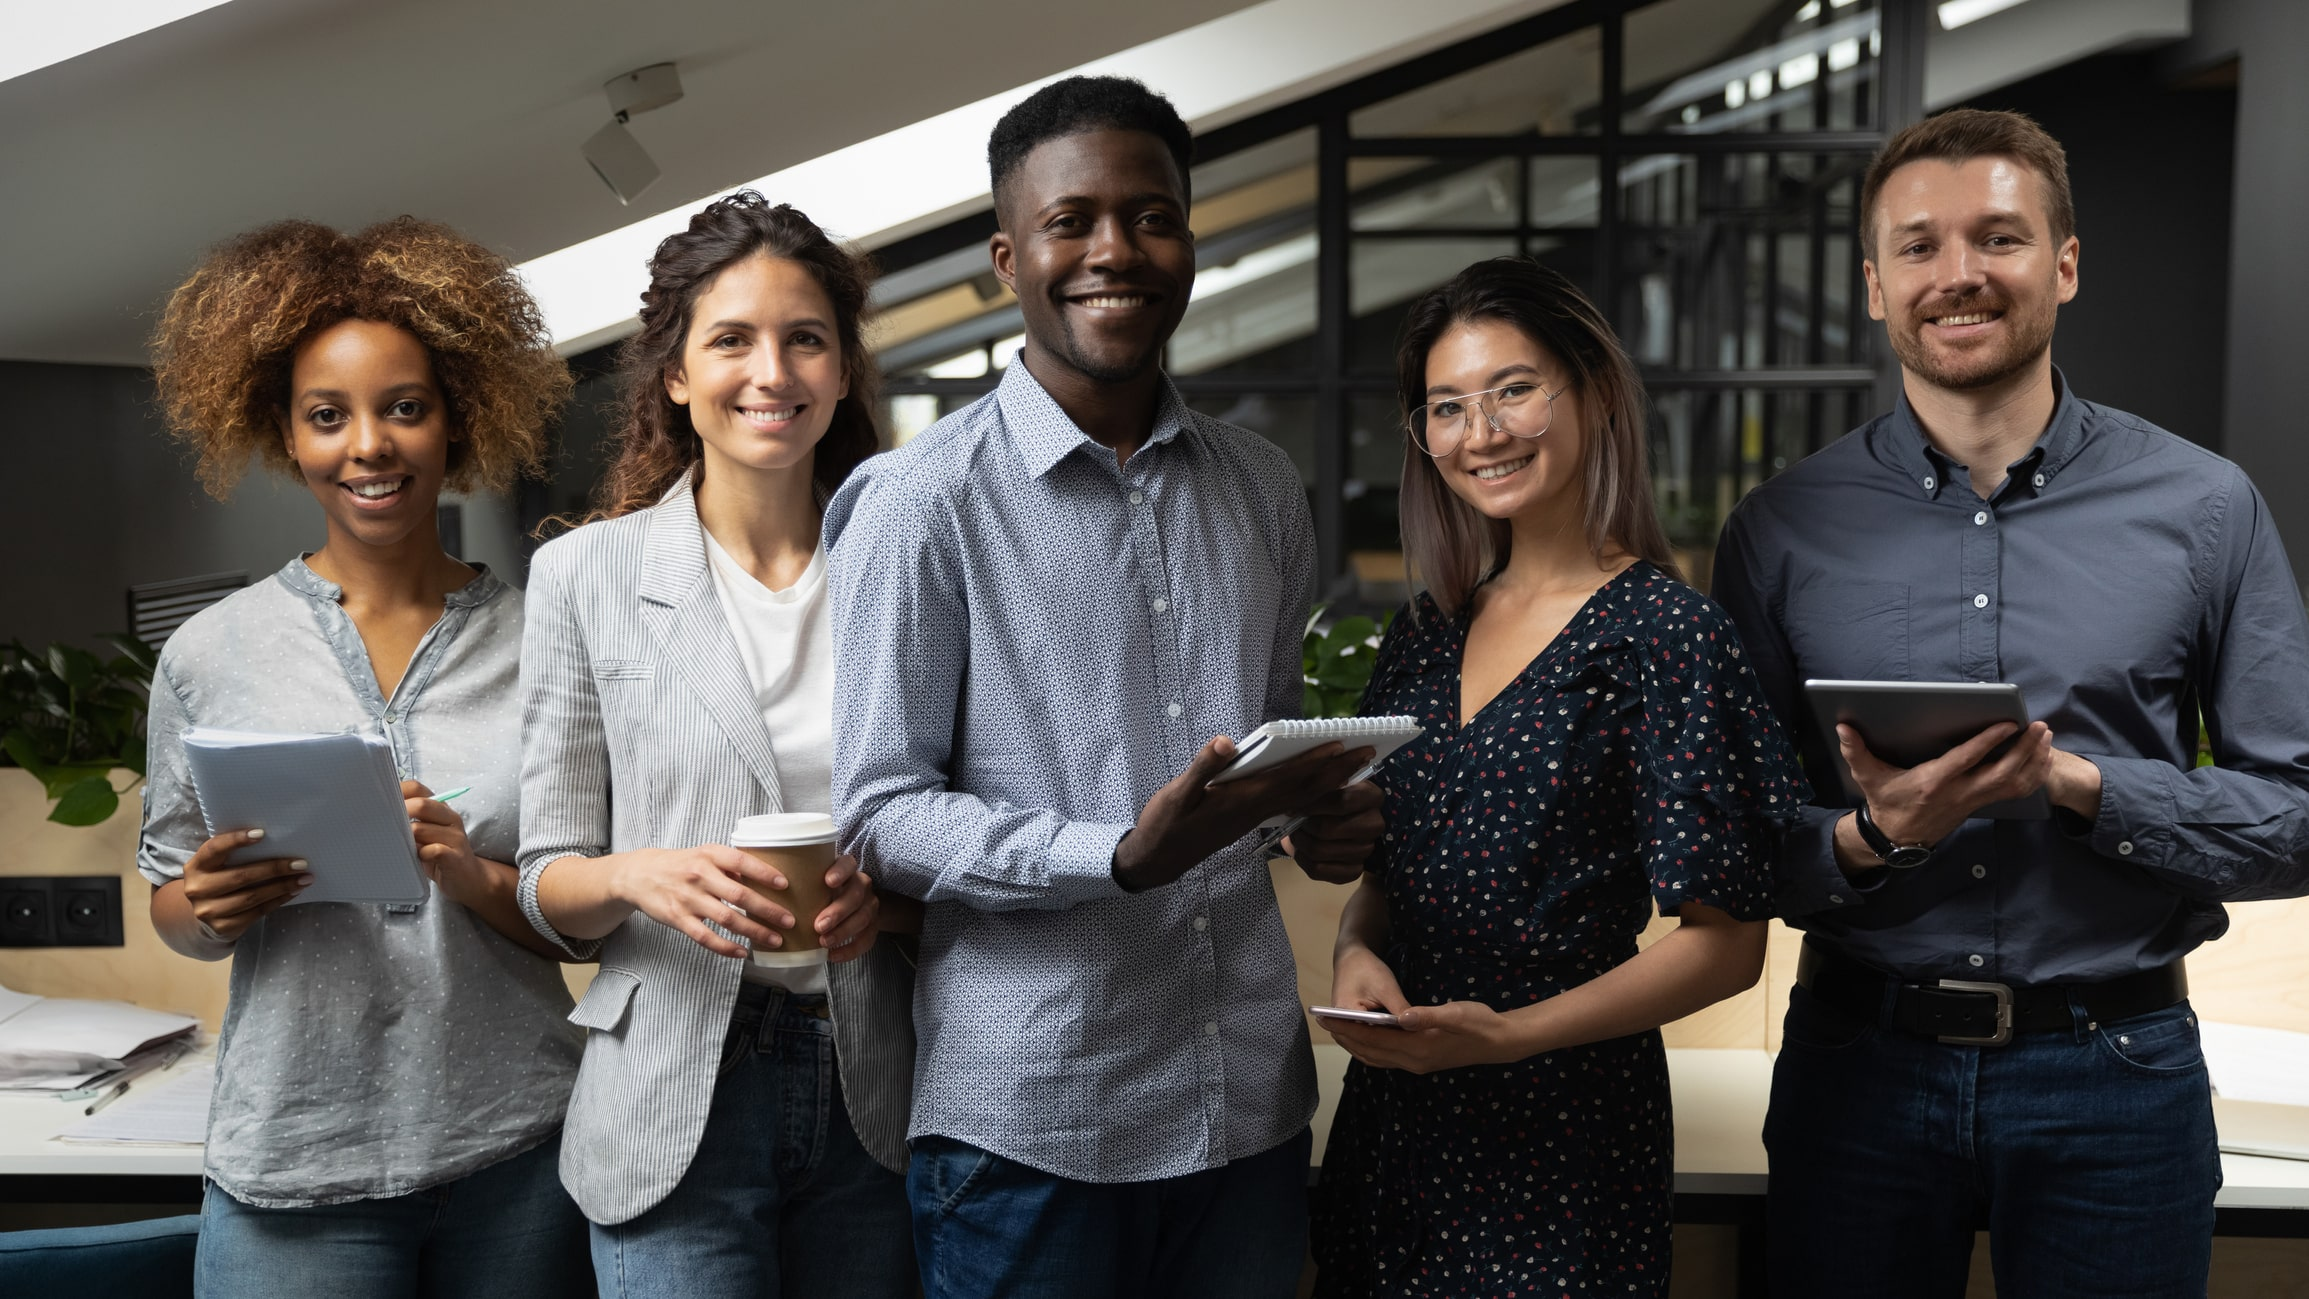
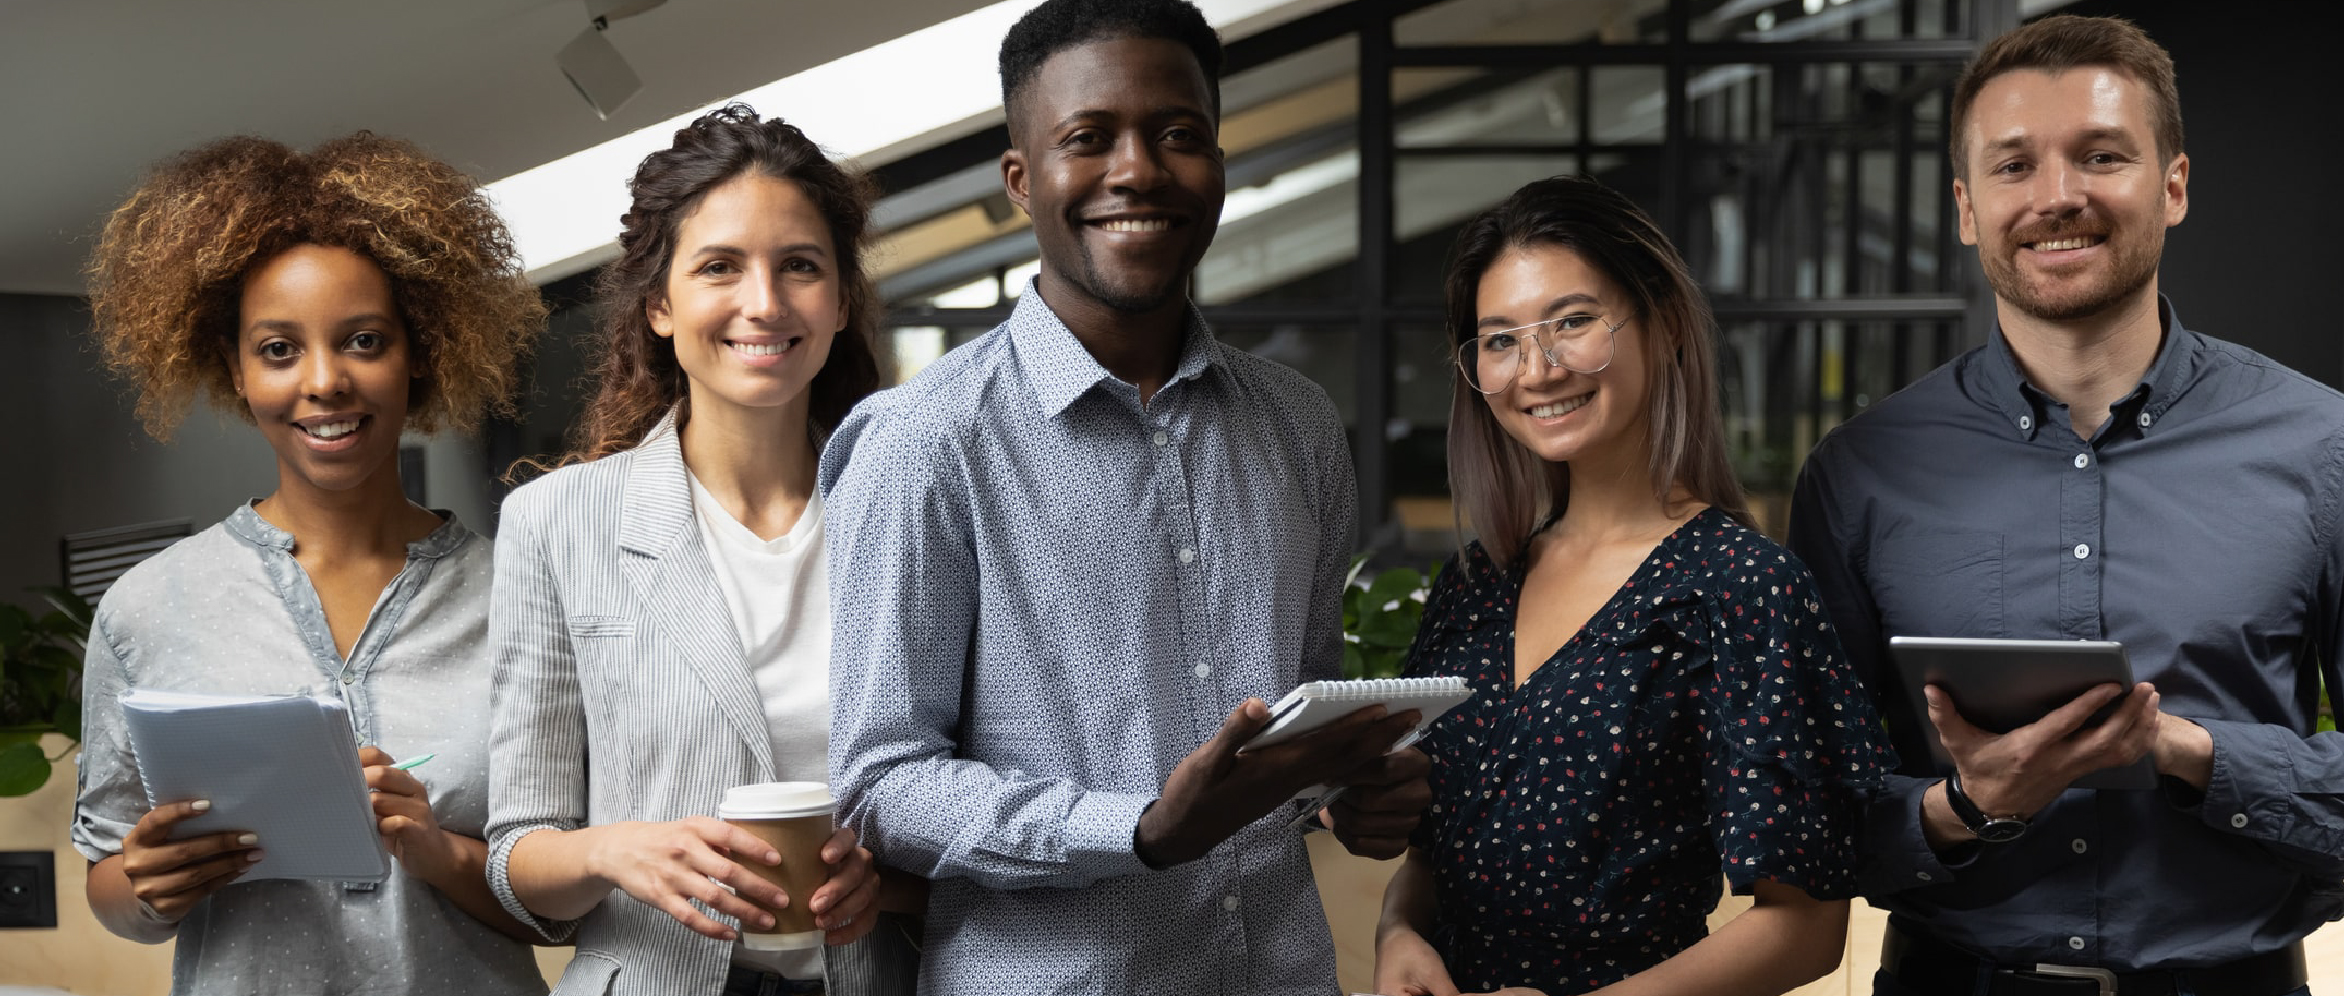
correção responsividade

diff --git a/assets/css/style.css b/assets/css/style.css
@@ -3,12 +3,11 @@ h1, h2, p {
 }
 
 h2 {
-    font-size: 30px!important;
+    font-size: 2em!important;
 }
 
 .carousel-item {
     width: 100%;
-    height: 400px!important;
     object-fit: cover;
     
 }
@@ -24,7 +23,7 @@ h2 {
 .titulo {
     margin-top: 20px;
     text-align: center;
-    font-size: 2.4em;
+    font-size: 1.4em;
     max-width: 800px;
     display: flex;
 }
@@ -49,7 +48,7 @@ h2 {
 }
 
 .text {
-    max-width: 650px;
+    max-width: 500px;
 }
 
 .footer {
@@ -62,4 +61,32 @@ h2 {
     color: white!important;
     text-align: center;
     padding-top: 20px;
+}
+
+@media (max-width: 600px) {
+    h1, h2 {
+        font-size: 1.3em!important;
+    }
+
+    p {
+        font-size: 1em;
+    }
+
+    .bloco {
+        max-width: 80vw!important;
+    }
+    .recrutamento {
+    display: flex;
+    flex-direction: column;
+    }
+
+    .img img {
+        height: 150px!important;
+    }
+}
+
+@media (min-width:601px) and (max-width: 800px) {
+    .img img {
+        height: 250px!important;
+    }
 }

diff --git a/index.html b/index.html
@@ -81,7 +81,7 @@
       </div>
 
 
-      <div class="container bloco">
+      <div class="container bloco ">
         <h1 class="titulo">Levamos empresas ao máximo potencial com gestão inteligente de pessoas e processos</h1>
         
         <div class="recrutamento">
